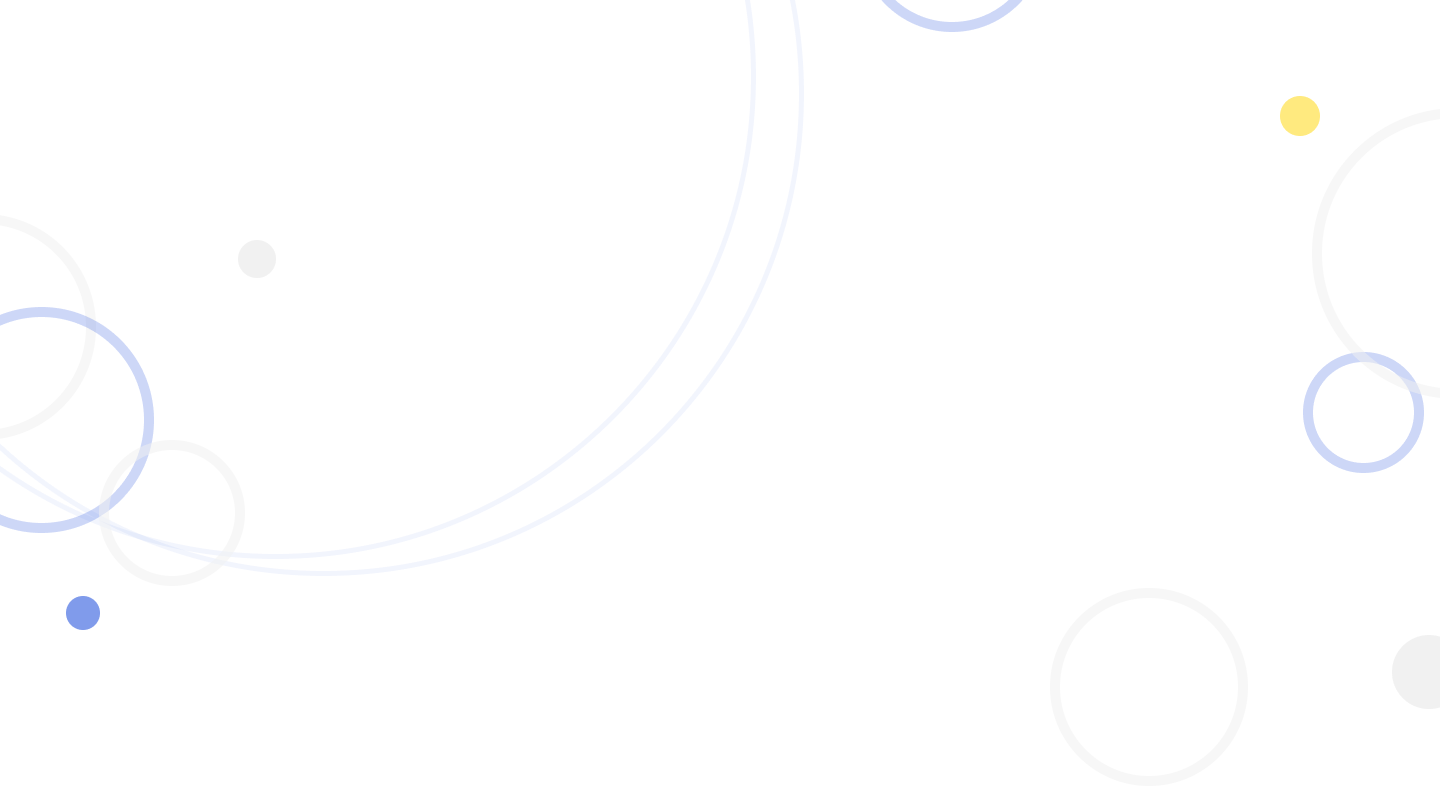
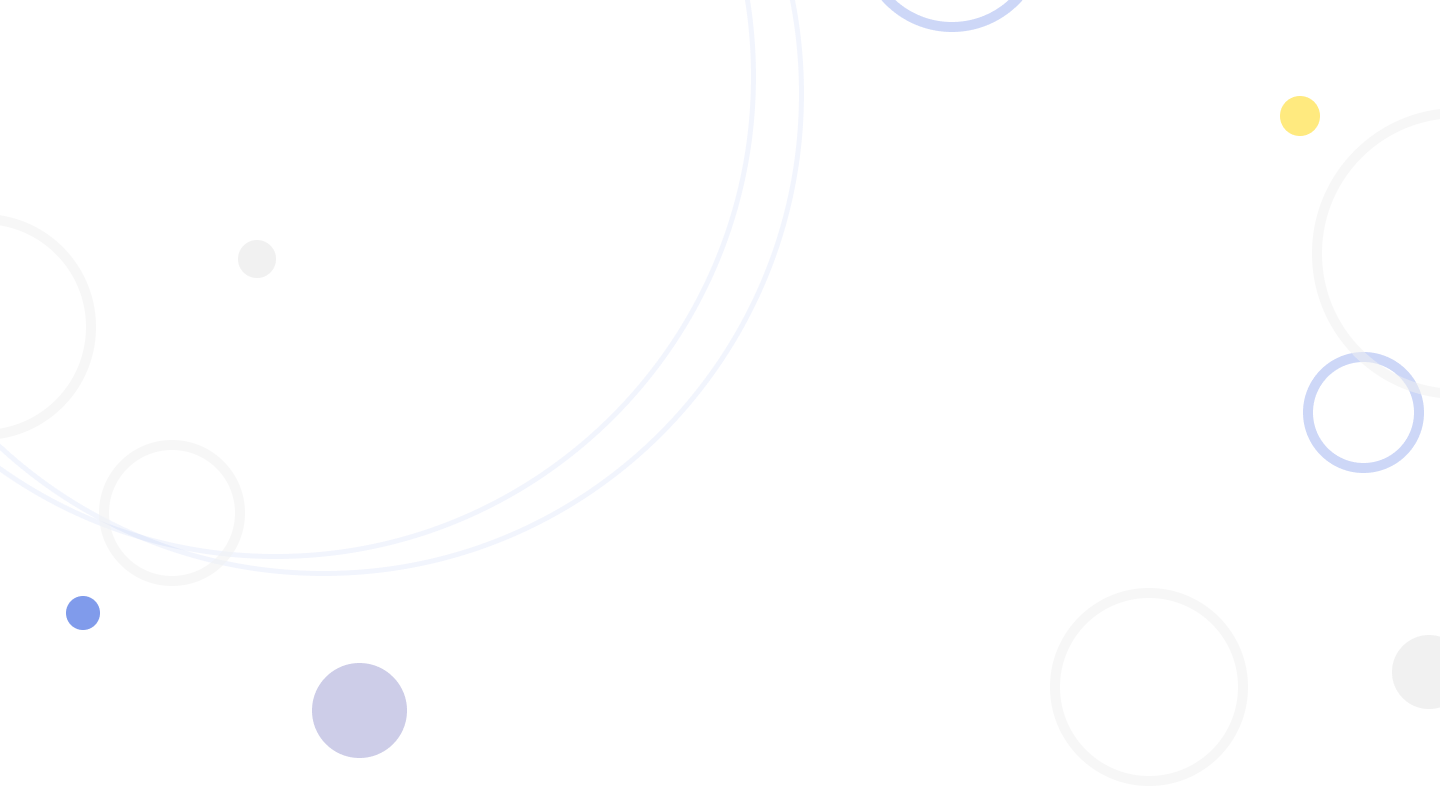
animation added

diff --git a/components/landin/LandingScreen.jsx b/components/landin/LandingScreen.jsx
@@ -52,17 +52,17 @@ export default function LandingScreen() {
             backgroundSize: "100% ",
             backgroundRepeat: "no-repeat",
           }}
-          className="relative w-full h-[60vh] md:min-h-screen bg-landing-image-mob  sm:bg-landing-image-web"
+          className="relative w-full h-[60vh] md:min-h-screen lg:-mt-[80px] bg-landing-image-mob  sm:bg-landing-image-web"
         >
           <div className=" h-[60vh] pt-10 pb-20  w-full md:h-[90vh]">
-            <div className="hidden lg:flex c1 absolute top-[30px] left-[400px]"></div>
-            <div className="c2 absolute top-[100px] right-[204px]"></div>
-            <div className="c3 absolute top-[350px] right-[150px]"></div>
-            <div className="c4 absolute top-[80px] right-[400px]"></div>
-            <div className="hidden lg:flex c5 absolute bottom-[101px] right-[312px]"></div>
-            <div className="hidden lg:flex c6 absolute bottom-[41px] left-[340px]"></div>
-            <div className=" flex h-full flex-col gap-0 justify-center self-center items-center">
-              <div className="text-anim-blog heading-main z-10 text-[#07038C] uppercase text-[24px] text-center w-[18rem] font-extrabold sm:w-[40rem] md:w-[44rem] xl:w-[60rem] sm:text-[40px] md:text-[45px] xl:text-[60px] 2xl:text-[85px] 2xl:w-[85rem] 2xl:leading-[90px]   lg:leading-[70px]">
+            <div className="hidden lg:flex c1 absolute lg:mt-[80px] top-[30px] left-[400px]"></div>
+            <div className="c2 absolute lg:mt-[80px] top-[100px] right-[204px]"></div>
+            <div className="c3 absolute lg:mt-[80px] top-[350px] right-[150px]"></div>
+            <div className="c4 absolute lg:mt-[80px] top-[80px] right-[400px]"></div>
+            <div className="hidden lg:flex c5 absolute lg:mt-[80px] bottom-[101px] right-[312px]"></div>
+            <div className="hidden lg:flex c6 absolute lg:mt-[80px] bottom-[200px] -left-[90px]"></div>
+            <div className=" flex h-full lg:mt-[80px] flex-col gap-0 justify-center self-center items-center">
+              <div className="text-anim-blog heading-main  z-10 text-[#07038C] uppercase text-[24px] text-center w-[18rem] font-extrabold sm:w-[40rem] md:w-[44rem] xl:w-[60rem] sm:text-[40px] md:text-[45px] xl:text-[60px] 2xl:text-[85px] 2xl:w-[85rem] 2xl:leading-[90px]   lg:leading-[70px]">
                 Digitize your Business today and Grow your Brand...
               </div>
               <div className="text-anim-blog flex items-center text-center justify-center">
@@ -73,7 +73,7 @@ export default function LandingScreen() {
               </div>
               <div className="mt-5 xl:mt-10">
                 <Link href="/#products">
-                  <button className="w-fit sm:w-[143px] sm:h-[43px] z-10 font-semibold text-[14px] md:text-base  uppercase text-white bg-primary-blue px-6 py-[.6rem] sm:p-0  tracking-wide rounded-full hover:bg-blue-800 cursor-pointer transition-all text-center flex items-center justify-center">
+                  <button className="w-fit shw sm:w-[143px] sm:h-[43px] z-10 font-semibold text-[14px] md:text-base  uppercase text-white bg-primary-blue px-6 py-[.6rem] sm:p-0  tracking-wide rounded-full hover:bg-blue-800 cursor-pointer transition-all text-center flex items-center justify-center">
                     KNOW MORE
                   </button>
                 </Link>
@@ -154,7 +154,7 @@ export default function LandingScreen() {
                             {item.description}
                           </p>
                           <Link href={item.link}>
-                            <button className="w-fit font-semibold mx-5 text-xs md:text-md  uppercase text-white bg-primary-blue px-4 py-2 sm:px-6 sm:py-3  tracking-wide rounded-full  hover:bg-blue-800 cursor-pointer transition-all text-center flex items-center justify-center">
+                            <button className="w-fit shw font-semibold mx-5 text-xs md:text-md  uppercase text-white bg-primary-blue px-4 py-2 sm:px-6 sm:py-3  tracking-wide rounded-full  hover:bg-blue-800 cursor-pointer transition-all text-center flex items-center justify-center">
                               READ MORE
                             </button>
                           </Link>
@@ -185,7 +185,7 @@ export default function LandingScreen() {
           </div>
           <div>
             <Link href="/career">
-              <button className="yellow-action-button">Explore Career</button>
+              <button className="yellow-action-button shw">Explore Career</button>
             </Link>
           </div>
         </div>

diff --git a/components/landin/Footer.jsx b/components/landin/Footer.jsx
@@ -30,7 +30,7 @@ export default function Footer() {
   return (
     <div className="relative bg-[#07081D] w-full h-fit z-10 pt-10 select-none">
       <div className="flex justify-center  flex-col px-5 gap-1">
-        <span className="text-white font-bold text-2xl self-center px-3 text-center">
+        <span className="text-white heading-main font-bold text-2xl self-center px-3 text-center">
           Get to know us!
         </span>
         <div className=" justify-center flex flex-col mt-4 lg:mt-0 h-fit sm:flex-row gap-2 w-full">
@@ -42,7 +42,7 @@ export default function Footer() {
             className="relative placeholder:text-[#777689] w-full sm:w-[30vw] h-fit self-end text-[#777689] bg-transparent outline-none border-[#5A5A5A] border-b-[1px] px-2"
           />
           <button
-            className="w-fit font-[400] self-center mt-3 sm:mt-10 text-primary-black bg-[#777689] px-8 py-[.6rem]  tracking-wide rounded-full hover:text-primary-blue hover:bg-white cursor-pointer transition-all text-center flex items-center justify-center"
+            className="button-wiggle w-fit font-[400] self-center mt-3 sm:mt-10 text-primary-black bg-[#777689] px-8 py-[.6rem]  tracking-wide rounded-full hover:text-primary-blue hover:bg-white cursor-pointer transition-all text-center flex items-center justify-center"
             onClick={() => handleSubmit()}
           >
             Subscribe
@@ -97,7 +97,7 @@ export default function Footer() {
                 target="_blank"
                 rel="noreferrer"
               >
-                <span className="bg-primary-violet h-8 w-8 hover:bg-violet-900 cursor-pointer rounded-full flex items-center justify-center">
+                <span className="bg-primary-violet h-8 w-8 shw hover:bg-[#4B0082] cursor-pointer rounded-full flex items-center justify-center">
                   <FaFacebookF className="h-full  w-full p-2 " />
                 </span>
               </a>
@@ -106,21 +106,21 @@ export default function Footer() {
                 target="_blank"
                 rel="noreferrer"
               >
-                <span className="bg-primary-violet h-8 w-8 hover:bg-violet-900 cursor-pointer rounded-full flex items-center justify-center">
+                <span className="bg-primary-violet h-8 w-8 shw hover:bg-[#4B0082] cursor-pointer rounded-full flex items-center justify-center">
                   <FaLinkedinIn className="h-full  w-full p-2 " />
                 </span>
               </a>
               <a
-                href="https://instagram.com/anj.america?igshid=YmMyMTA2M2Y="
+                href="https://instagram.com/anj.america?igshwid=YmMyMTA2M2Y="
                 target="_blank"
                 rel="noreferrer"
               >
-                <span className="bg-primary-violet h-8 w-8 hover:bg-violet-900 cursor-pointer rounded-full flex items-center justify-center">
+                <span className="bg-primary-violet h-8 w-8 shw hover:bg-[#4B0082] cursor-pointer rounded-full flex items-center justify-center">
                   <FaInstagram className="h-full  w-full p-2 " />
                 </span>
               </a>
               <Link href="/#contact">
-                <span className="bg-primary-violet h-8 w-8 hover:bg-violet-900 cursor-pointer rounded-full flex items-center justify-center">
+                <span className="bg-primary-violet h-8 w-8 shw hover:bg-[#4B0082] cursor-pointer rounded-full flex items-center justify-center">
                   <BsEnvelopeFill className="h-full  w-full p-2 " />
                 </span>
               </Link>

diff --git a/styles/globals.css b/styles/globals.css
@@ -634,6 +634,10 @@ input.file {
   -ms-animation: fadeIn ease 5s;
 }
 
+.sh{
+  box-shadow: 0px 4px 16px rgba(0, 0, 0, 0.05);
+}
+
 @keyframes fadeIn {
   0% {
     opacity: 0;
@@ -751,10 +755,15 @@ input.file {
 }
 
 .c6 {
-  width:95px;
-  height:95px;
-  background-color: #cdcde8;
+  width:180px;
+  height:180px;
   border-radius: 50%;
+  background: transparent;
+  border-radius: 50%;
+  border-width: 10px;
+  border-color: #07038C33;
+  opacity: 50%;
+  border-style: solid;
   animation: zoom-in-zoom-out 5s ease infinite;
   opacity: 1;
 }
@@ -770,4 +779,75 @@ input.file {
     97% { transform:translateY(0%); }
     99% { transform:translateY(-3%); }
     100% { transform:translateY(0); }
+}
+
+
+.button-wiggle {
+  animation: wiggle 4s 2s infinite;
+}
+
+@keyframes wiggle {
+	5%,
+	50% {
+		transform: scale(1);
+	}
+	10% {
+		transform: scale(0.9);
+	}
+	15% {
+		transform: scale(1.15);
+	}
+	20% {
+		transform: scale(1.15) rotate(-5deg);
+	}
+	25% {
+		transform: scale(1.15) rotate(5deg);
+	}
+	30% {
+		transform: scale(1.15) rotate(-3deg);
+	}
+	35% {
+		transform: scale(1.15) rotate(2deg);
+	}
+	40% {
+		transform: scale(1.15) rotate(0);
+	}
+}
+
+.button-pulse {
+  animation: pulse 2s infinite 3s cubic-bezier(0.25, 0, 0, 1);
+  box-shadow: 0 0 0 0 white;
+}
+@keyframes pulse {
+  to {
+    box-shadow: 0 0 0 18px rgba(255, 255, 255, 0); 
+  }
+}
+
+.btn-1 {
+  transition: all 0.25s ease-out;
+}
+
+.btn-1:hover {
+  animation: zoom-in  1s cubic-bezier(.36,.07,.19,.97) both;
+  box-shadow: -6px 14px 12px 2px rgba(90, 90, 90, .12);
+}
+
+.shw:hover{
+    box-shadow: 0px 0px 15px #b284be;
+    animation: zoom-in  1s cubic-bezier(.36,.07,.19,.97) both;
+}
+
+@keyframes zoom-in {
+  0% {
+    transform: scale(1, 1);
+    opacity: 0.4;
+  }
+  50% {  
+    opacity: 1;
+  }
+  100% {
+    transform: scale(1.1, 1.1);
+    opacity: 1;
+  }
 }

diff --git a/pages/career/[jobId].js b/pages/career/[jobId].js
@@ -304,7 +304,7 @@ export default function Index() {
           <button
             className={
               !modal
-                ? "sticky bottom-4 mb-4 right-4 float-right w-fit font-medium text-white bg-primary-blue px-4 py-2  uppercase  rounded-full hover:bg-blue-800 transition-all text-center items-center gap-2 flex flex-row justify-between"
+                ? "button-wiggle sticky bottom-4 mb-4 right-4 float-right w-fit font-medium text-white bg-primary-blue px-4 py-2  uppercase  rounded-full hover:bg-blue-800 transition-all text-center items-center gap-2 flex flex-row justify-between"
                 : "sticky bottom-4 mb-4 float-right right-4 w-fit font-medium text-white bg-red-600 px-4 py-2  uppercase  rounded-full hover:bg-red-400 transition-all text-center items-center gap-2 flex flex-row justify-between"
             }
             onClick={() => setModal(!modal)}
@@ -314,7 +314,7 @@ export default function Index() {
               <AiOutlineDoubleRight
                 className={
                   !modal
-                    ? "w-7 h-7 rounded-full bg-white text-primary-blue p-1"
+                    ? "button-wiggle w-7 h-7 rounded-full bg-white text-primary-blue p-1"
                     : "w-7 h-7 rounded-full bg-white text-red-600 p-1"
                 }
               />

diff --git a/components/career/JobCard.js b/components/career/JobCard.js
@@ -125,12 +125,12 @@ export default function JobCard({ item, getDetails }) {
           </span>
           <div className="flex flex-row gap-4">
             <Link href={`career/${item._id}`}>
-              <button className="w-fit font-semibold text-xs text-white bg-primary-blue px-3 py-2  uppercase rounded-full text-center flex items-center justify-center">
+              <button className="btn-1 w-fit font-semibold text-xs text-white bg-primary-blue px-3 py-2  uppercase rounded-full text-center flex items-center justify-center">
                 READ MORE
               </button>
             </Link>
             <button
-              className="w-fit font-semibold text-xs text-white bg-primary-blue px-3 py-2  uppercase rounded-full text-center flex items-center justify-center"
+              className="btn-1 w-fit font-semibold text-xs text-white bg-primary-blue px-3 py-2  uppercase rounded-full text-center flex items-center justify-center"
               onClick={() => {
                 setFormModal(!formModal);
               }}

diff --git a/pages/staffing.js b/pages/staffing.js
@@ -26,7 +26,7 @@ export default function Staffing() {
             sourced to your project as a full time or a consultant.
           </p>
           <Link href="/staffing#hiring">
-            <button className="w-fit font-semibold text-[13px] text-white bg-[#04c0de] px-6 md:px-[40px] py-3 md:py-[13px] tracking-wide mt-4 md:mt-6  rounded-full hover:bg-[#33b5af] transition-all text-center flex items-center justify-center">
+            <button className="button-pulse w-fit font-semibold text-[13px] text-white bg-[#04c0de] px-6 md:px-[40px] py-3 md:py-[13px] tracking-wide mt-4 md:mt-6  rounded-full hover:bg-[#33b5af] transition-all text-center flex items-center justify-center">
               Learn More
             </button>
           </Link>

diff --git a/components/landin/Header.jsx b/components/landin/Header.jsx
@@ -17,8 +17,8 @@ export default function Header() {
     <div
       className={`${
         router.pathname ===  ("/blogs" || "/about" || "/digitize" || "/staffing")
-          ? "relative w-full flex bg-white justify-between items-center h-[80px] shadow-sm px-4  md:px-[2%] md:py-4 md:items-center md:h-[80px]"
-          : "relative w-full  flex justify-between items-center h-[80px] shadow-sm px-4  md:px-[2%] md:py-4 md:items-center md:h-[80px]"
+          ? "relative w-full flex bg-white justify-between items-center h-[80px]  px-4  md:px-[2%] md:py-4 md:items-center md:h-[80px] sh"
+          : "relative w-full  flex justify-between items-center h-[80px]  px-4  md:px-[2%] md:py-4 md:items-center md:h-[80px] sh"
       }`}
 
     >

diff --git a/pages/products.jsx b/pages/products.jsx
@@ -75,7 +75,7 @@ export default function Products() {
         <img
           alt="prev arrow"
           src="/landing/prev-arrow.svg"
-          className="hidden md:flex md:h-10 md:absolute md:top-[20rem] md:left-[17px] lg:h-10 lg:left-[17px] xl:left-[24px] sm:w-7  xl:w-fit  text-primary-gray cursor-pointer"
+          className="hidden md:flex  md:h-10 md:absolute md:top-[20rem] md:left-[17px] lg:h-10 lg:left-[17px] xl:left-[24px] sm:w-7  xl:w-fit  text-primary-gray cursor-pointer"
           onClick={() => handleOnPrevClick()}
         />
         <img
